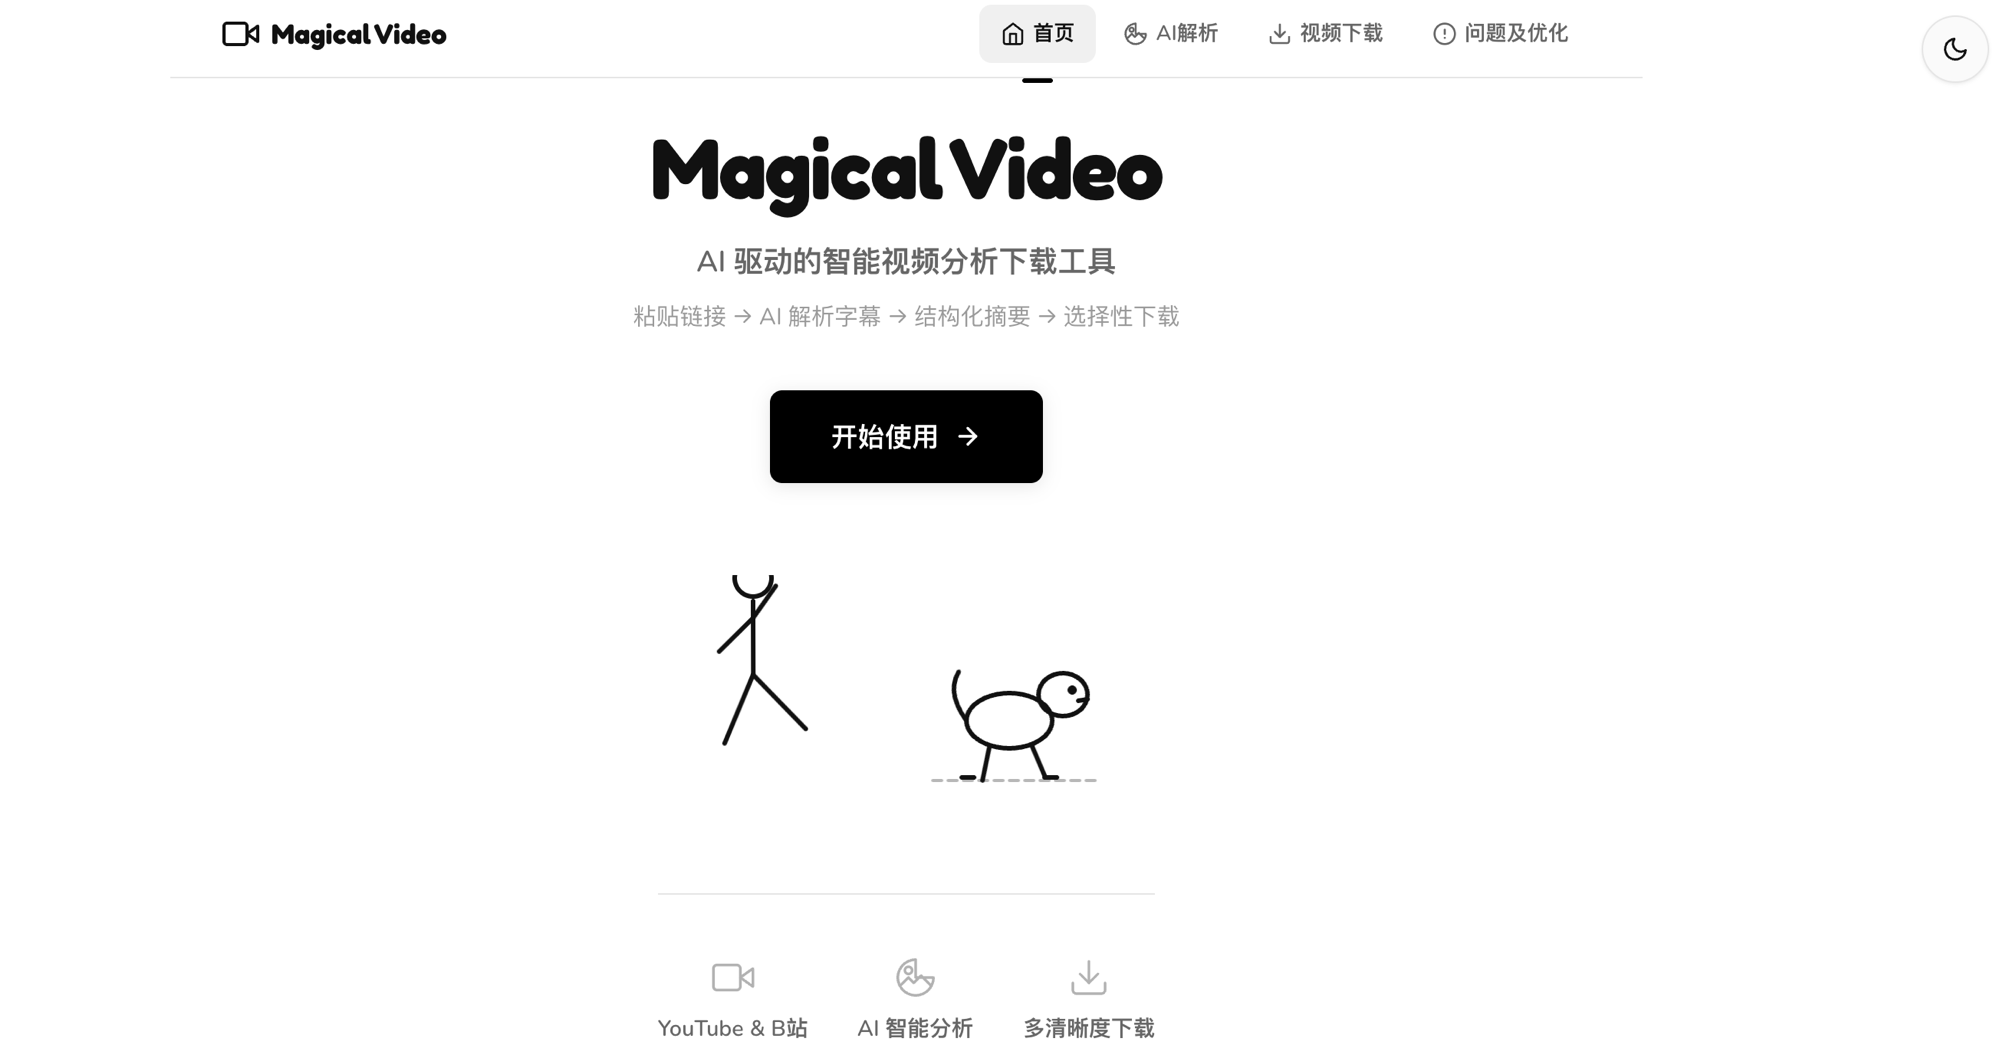
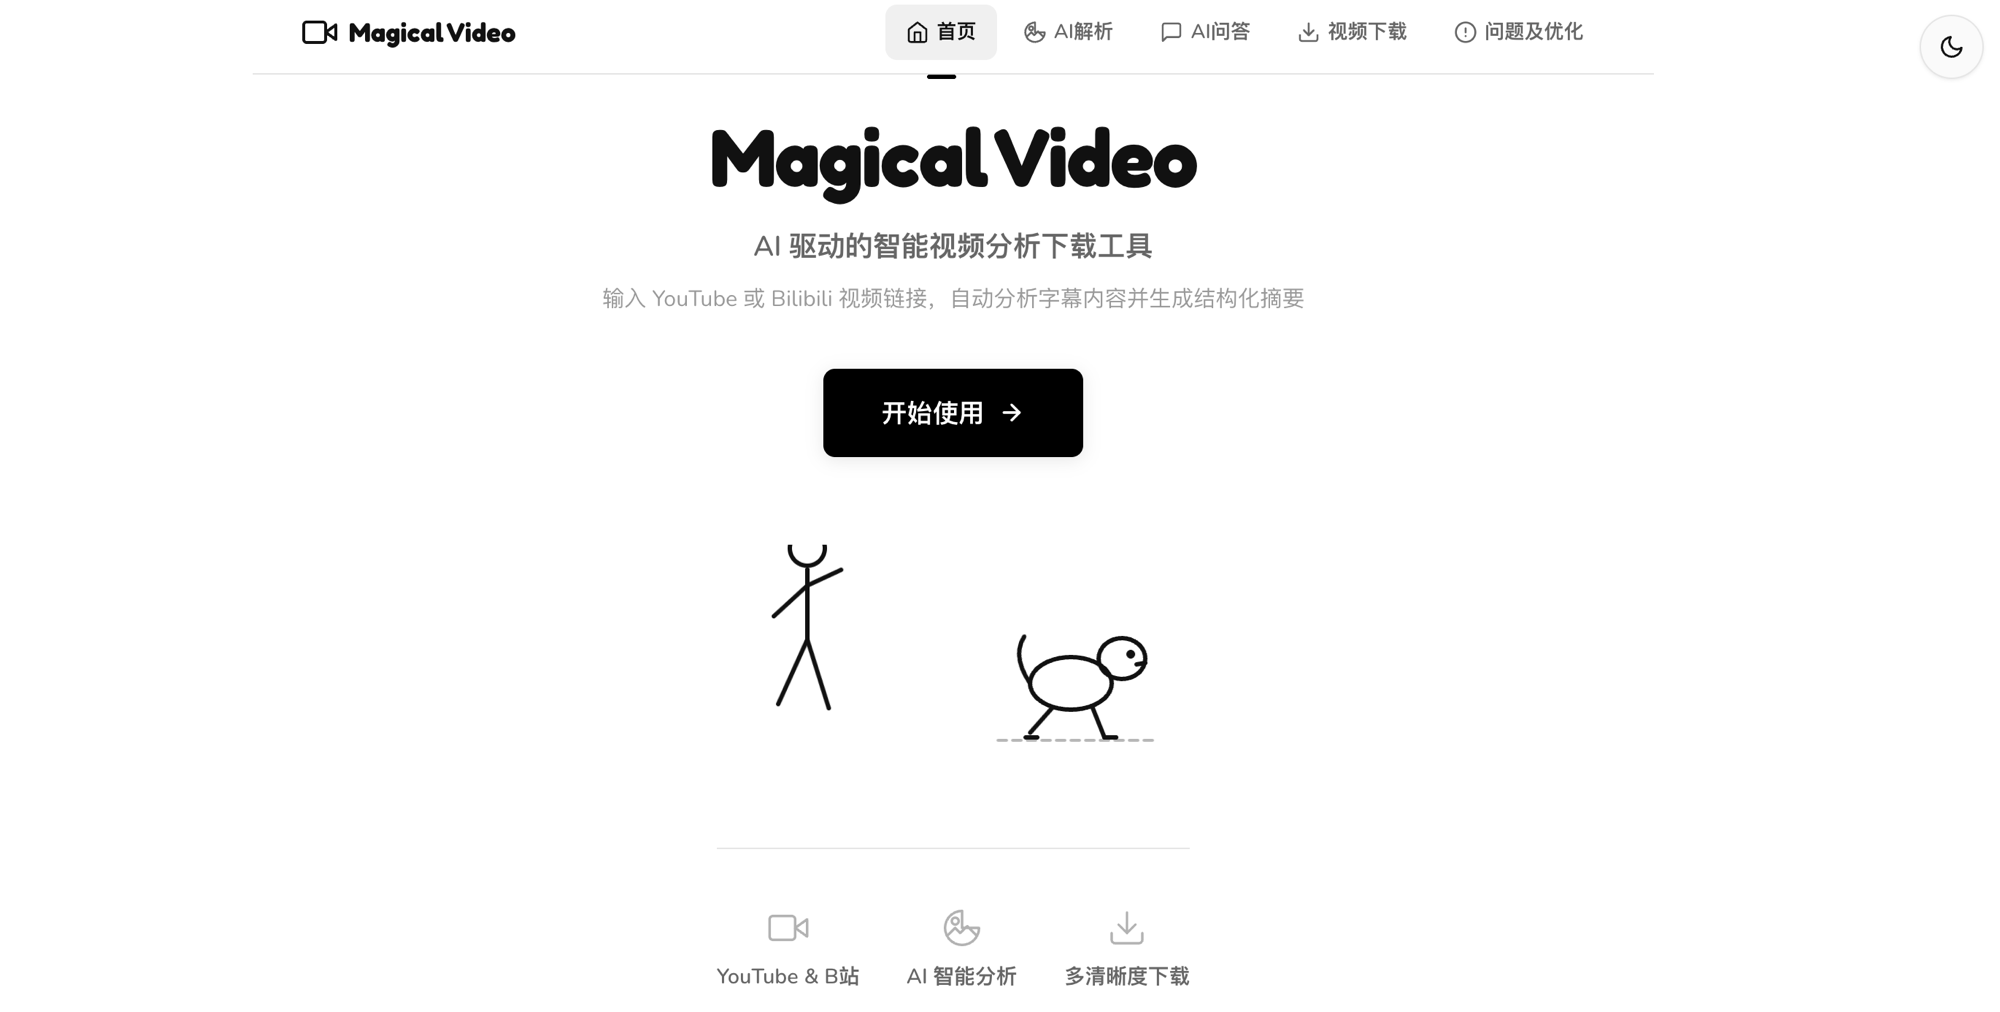
docs: 更新截图 + README 简介加入 AI 问答描述

diff --git a/README.md b/README.md
@@ -2,9 +2,9 @@
 
 # 🎬 Magical Video
 
-Magical Video is a web application that uses AI to analyze video content. Given a YouTube or Bilibili URL, it extracts the video's subtitles, sends them to DeepSeek for structured analysis, and presents the results as a multi-dimensional summary with an interactive mind map. It also supports downloading videos in available resolutions.
+Magical Video is a web application that uses AI to analyze video content. Given a YouTube or Bilibili URL, it extracts the video's subtitles, sends them to DeepSeek for structured analysis, and presents the results as a multi-dimensional summary with an interactive mind map. After analysis, you can chat with AI about the video — ask questions and get answers backed by the actual subtitles. It also supports downloading videos in available resolutions.
 
-The core value is the AI analysis pipeline: instead of watching a 30-minute video, you can skim a structured breakdown (overview, outline, key points, conclusions, and a knowledge-tree mind map) in under a minute.
+The core value is the AI analysis pipeline: instead of watching a 30-minute video, you can skim a structured breakdown (overview, outline, key points, conclusions, and a knowledge-tree mind map) in under a minute, then dive deeper into specific topics through AI-powered Q&A.
 
 [![Python](https://img.shields.io/badge/Python-3.10+-blue.svg)](https://www.python.org/)
 [![FastAPI](https://img.shields.io/badge/FastAPI-0.115+-009688.svg)](https://fastapi.tiangolo.com/)

diff --git a/README_CN.md b/README_CN.md
@@ -2,9 +2,9 @@
 
 # 🎬 Magical Video
 
-Magical Video 是一个基于 AI 的视频内容分析工具。输入 YouTube 或 Bilibili 视频链接，程序自动提取字幕，交由 DeepSeek 进行结构化分析，最终输出包含概述、大纲、要点、总结和交互式思维导图的多维度摘要。同时支持视频下载。
+Magical Video 是一个基于 AI 的视频内容分析工具。输入 YouTube 或 Bilibili 视频链接，程序自动提取字幕，交由 DeepSeek 进行结构化分析，最终输出包含概述、大纲、要点、总结和交互式思维导图的多维度摘要。分析完成后，可以就视频内容与 AI 对话问答，所有回答都基于字幕原文。同时支持视频下载。
 
-核心价值在于 AI 分析流程：一段 30 分钟的视频，可以在不到一分钟内浏览其结构化拆解结果（概述、大纲、关键要点、结论及知识树思维导图），快速判断视频是否值得完整观看。
+核心价值在于 AI 分析流程：一段 30 分钟的视频，可以在不到一分钟内浏览其结构化拆解结果（概述、大纲、关键要点、结论及知识树思维导图），还可通过 AI 问答针对特定话题深入追问。
 
 [![Python](https://img.shields.io/badge/Python-3.10+-blue.svg)](https://www.python.org/)
 [![FastAPI](https://img.shields.io/badge/FastAPI-0.115+-009688.svg)](https://fastapi.tiangolo.com/)